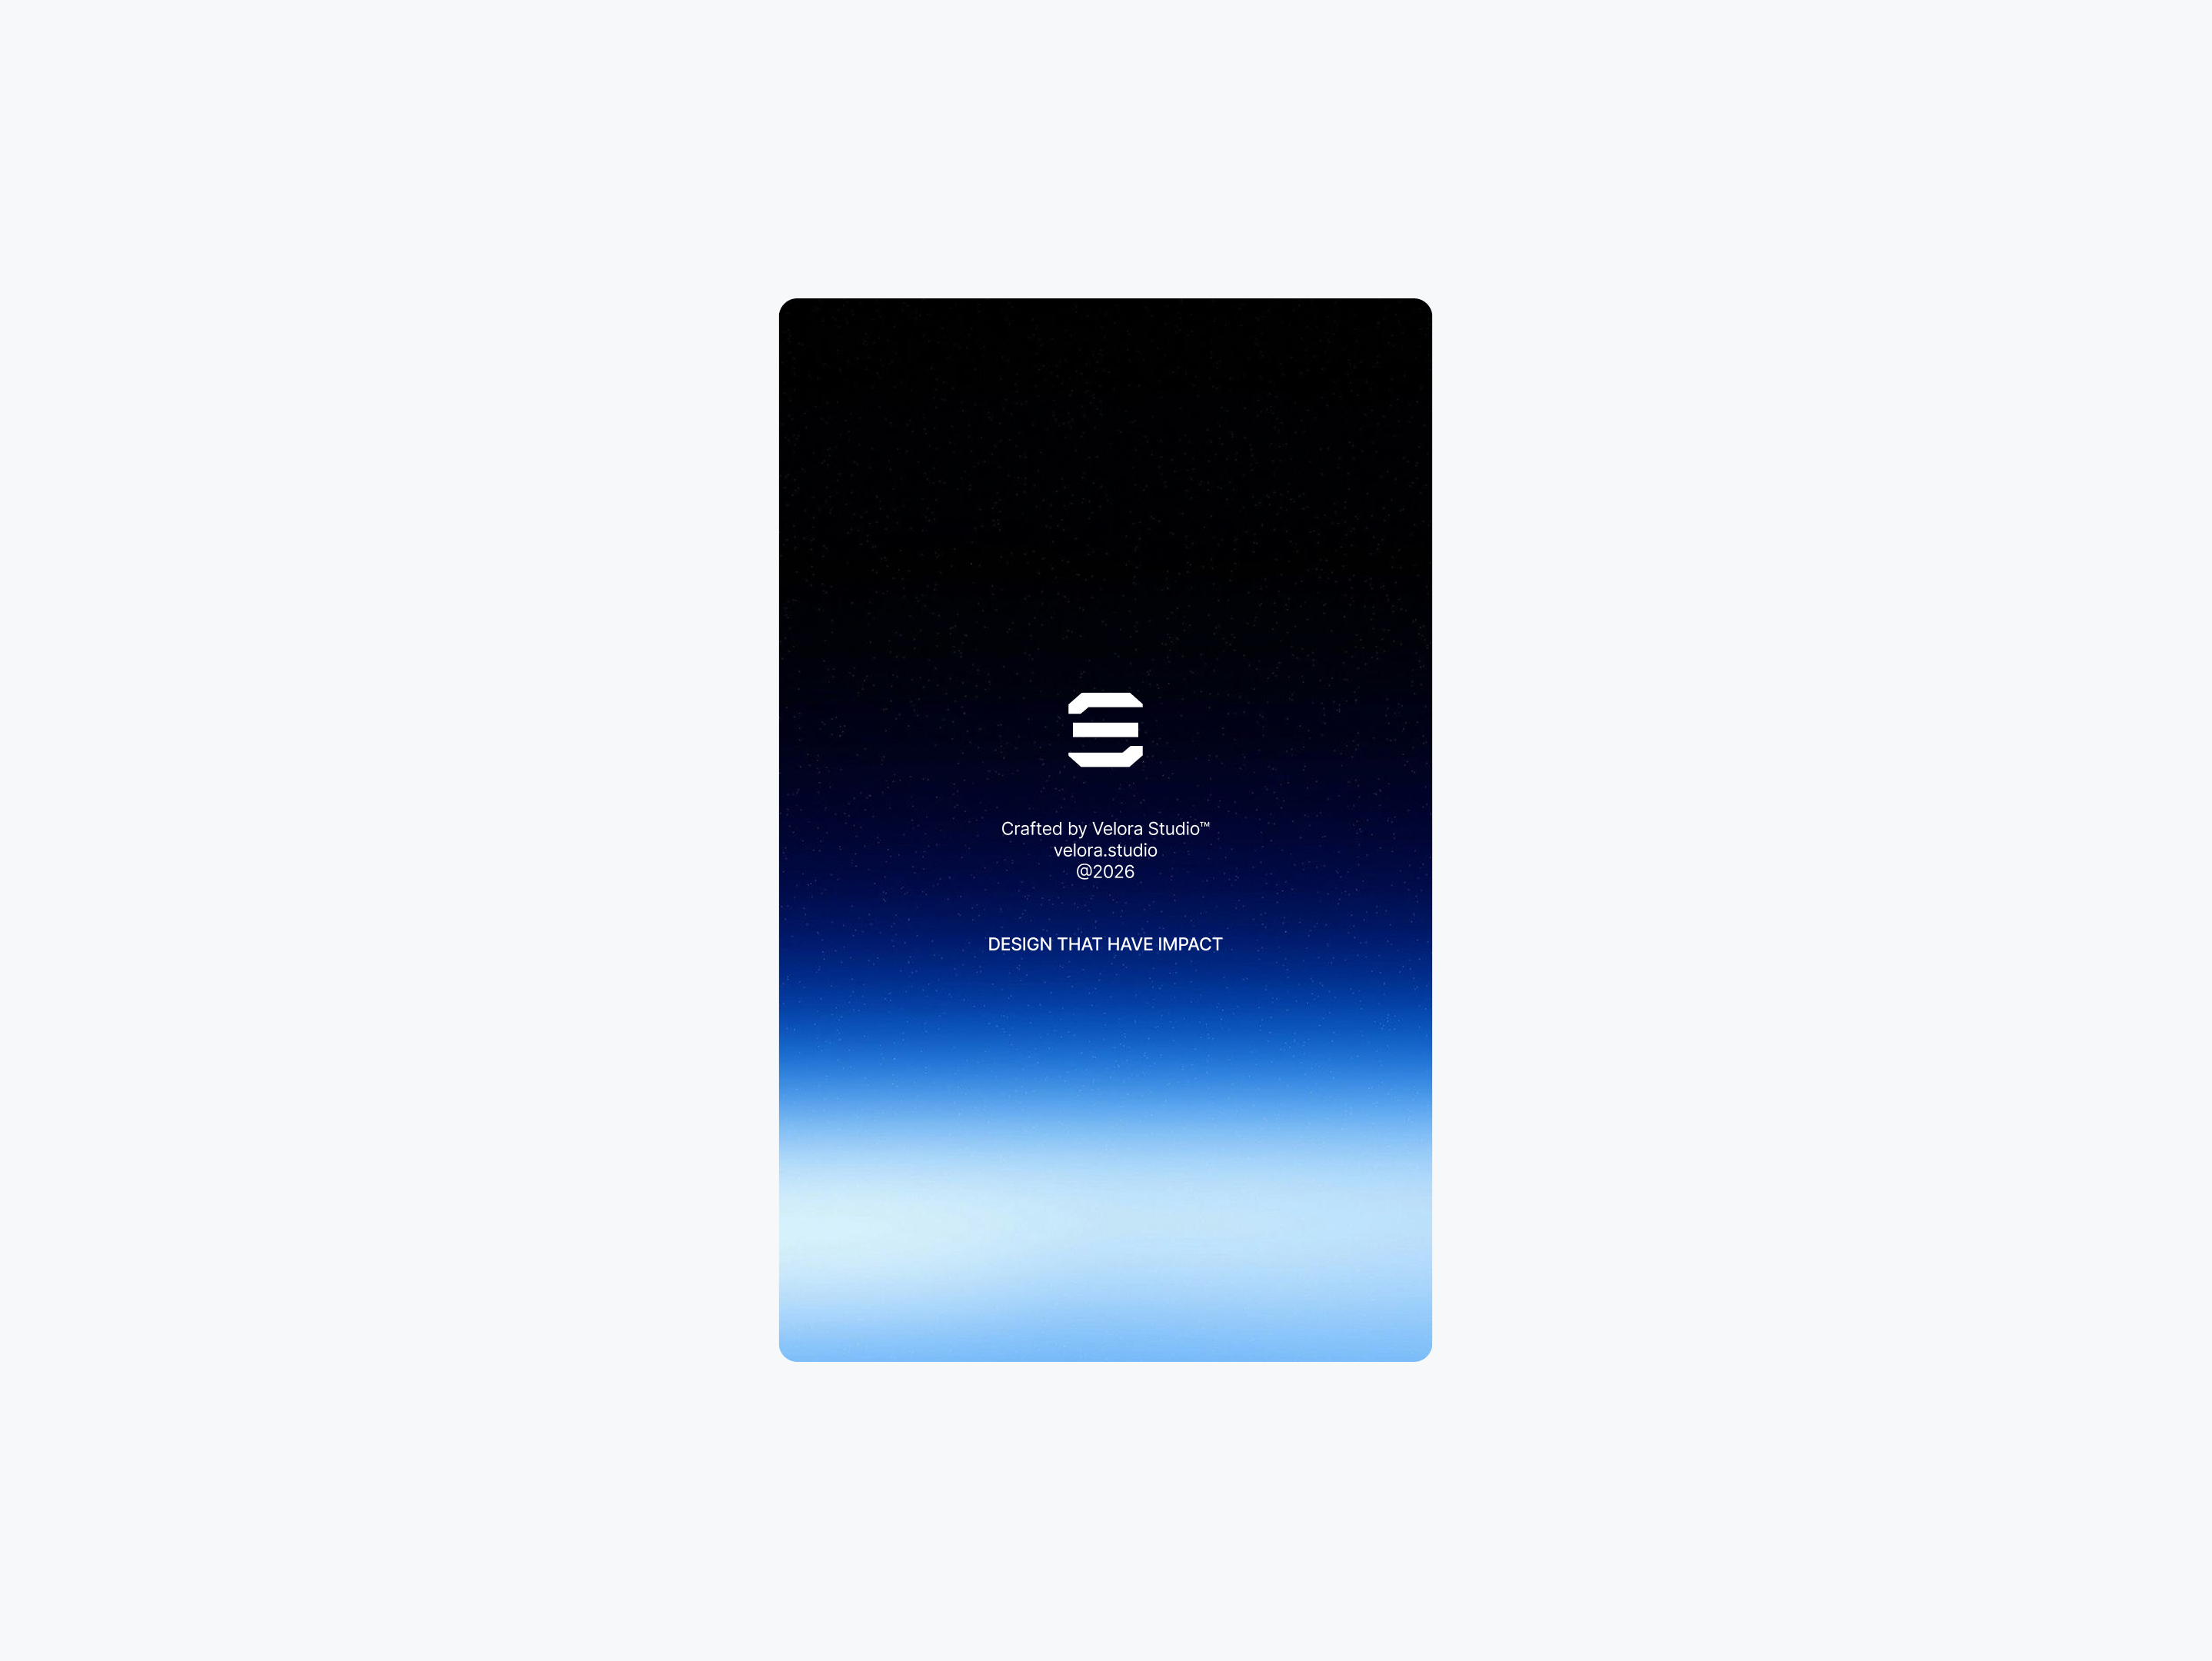
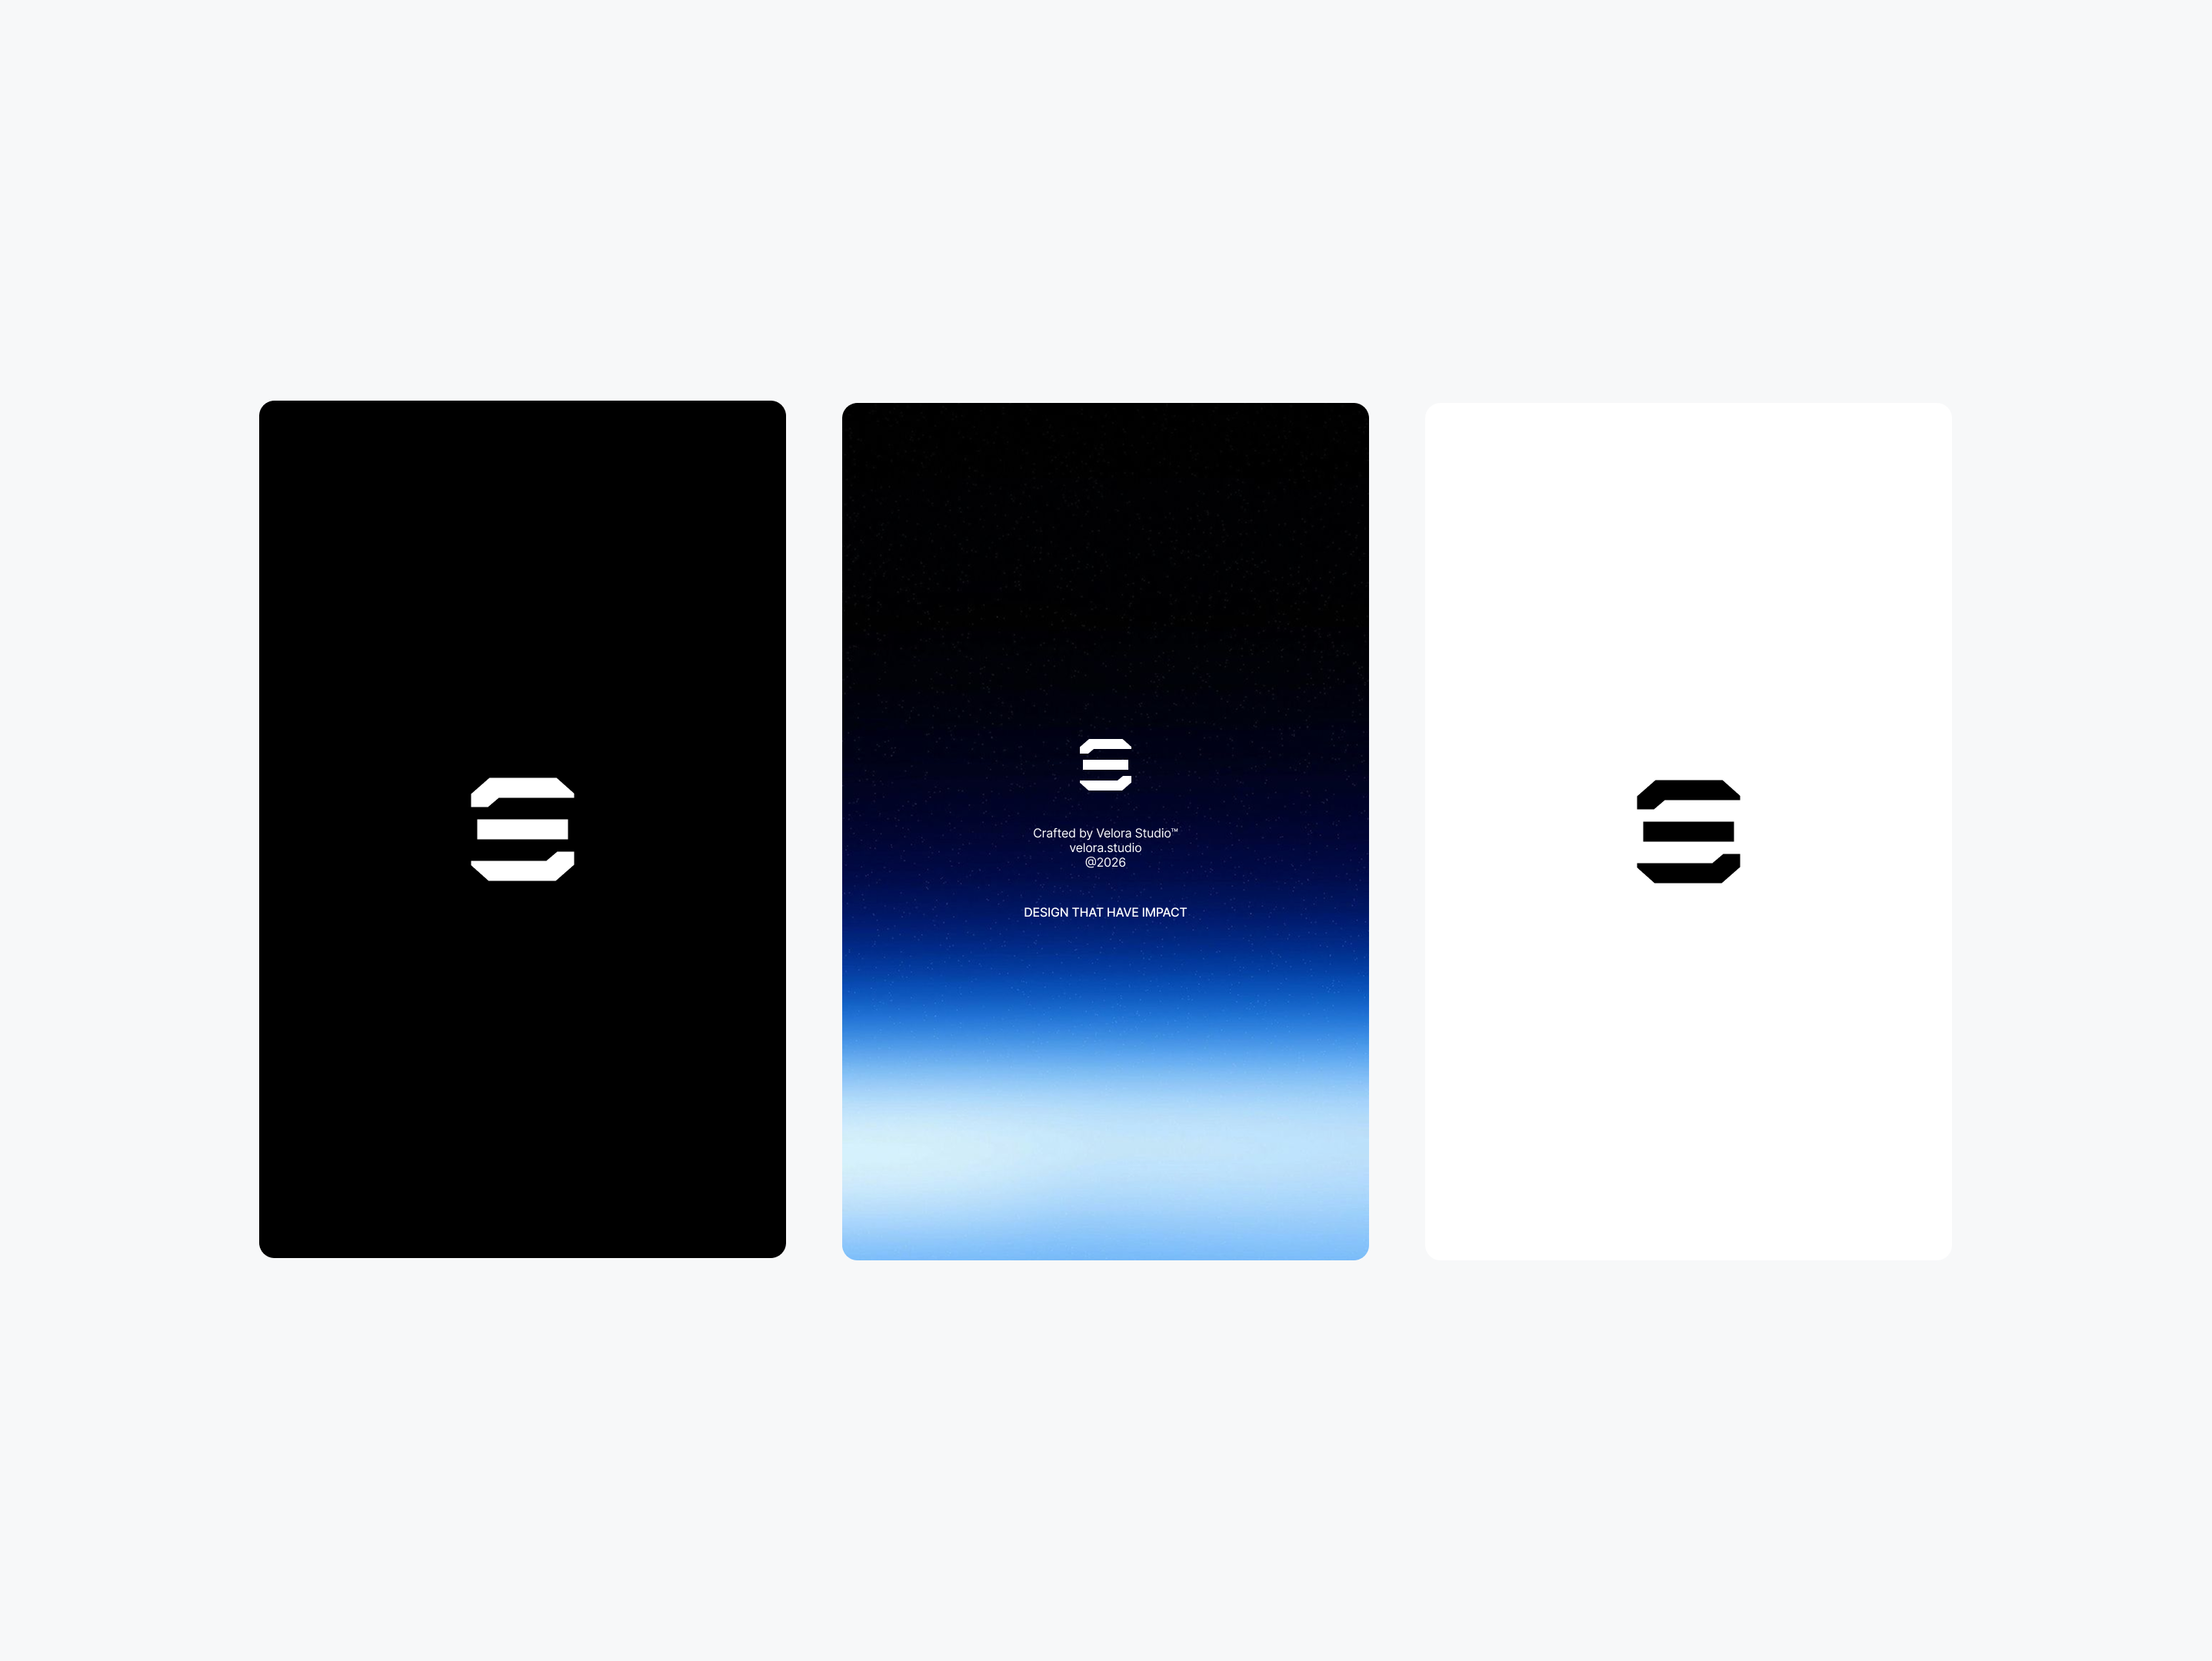
Switch font from Space Mono back to Inter
Made-with: Cursor

Changed region(s): [[0.0928, 0.1551, 0.6499, 0.8375], [0.7427, 0.4653, 0.8046, 0.5583]]

diff --git a/app/layout.tsx b/app/layout.tsx
@@ -1,15 +1,14 @@
 import type React from "react"
 import type { Metadata } from "next"
 import "./globals.css"
-import { Space_Mono } from "next/font/google"
+import { Inter } from "next/font/google"
 import { ScrollProgress } from "@/components/scroll-progress"
 import Script from "next/script"
 import { ThemeProvider } from "@/components/theme-provider"
 
-const spaceMono = Space_Mono({
+const inter = Inter({
   subsets: ["latin"],
-  weight: ["400", "700"],
-  variable: "--font-space-mono",
+  variable: "--font-inter",
   display: "swap",
   preload: true,
 })
@@ -99,7 +98,7 @@ export default function RootLayout({
     <html 
       lang="en" 
       suppressHydrationWarning 
-      className={`min-h-screen font-mono antialiased ${spaceMono.variable} scroll-smooth dark`}
+      className={`min-h-screen font-mono antialiased ${inter.variable} scroll-smooth dark`}
     >
       <head>
         {/* Preconnect to external domains */}
@@ -215,7 +214,7 @@ export default function RootLayout({
         </Script>
         <meta name="google-site-verification" content="rBFO4BnsZWwJLW1BLBRn6wuhlOt2OzXkm1Yu6BDIM6I" />
       </head>
-      <body className="min-h-screen bg-[#080808] font-mono antialiased">
+      <body className="min-h-screen bg-[#080808] font-sans antialiased">
         <ThemeProvider>
           <ScrollProgress />
           <div className="relative flex min-h-screen flex-col">